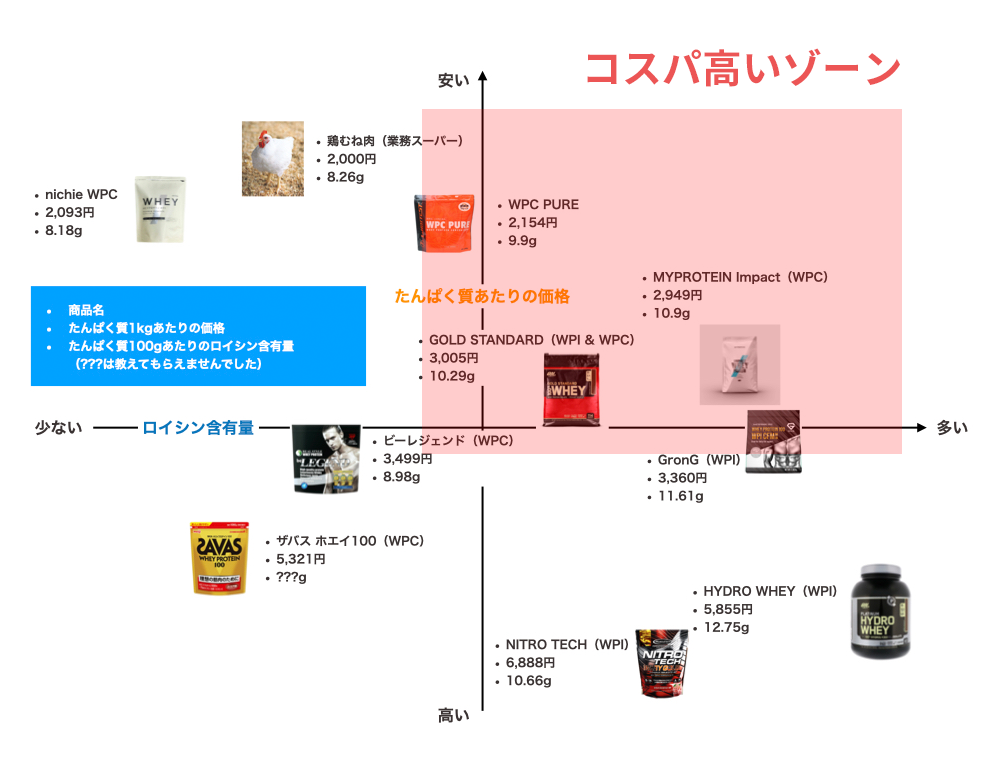
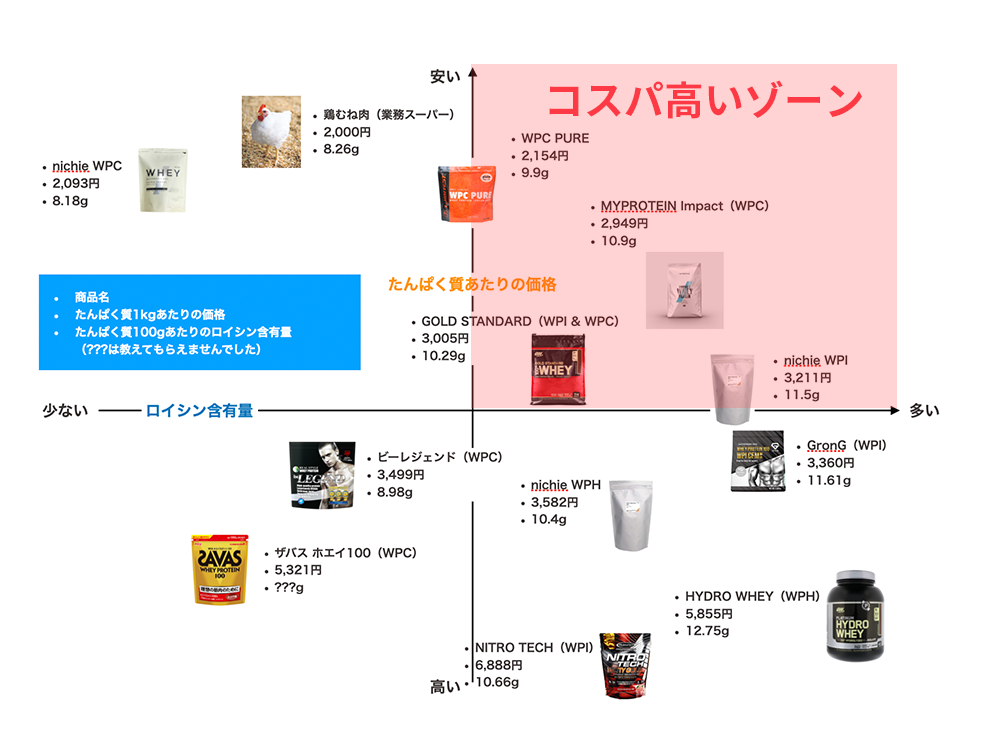
before install new theme

diff --git a/static/css/style.css b/static/css/style.css
@@ -200,3 +200,36 @@ table td, table th {
   content: '/';
   padding: 0 0.5em;
 }
+
+.thumbnail {
+  background-image: url('/img/trenyan.png');
+  background-position: center;
+  background-repeat: no-repeat;
+  background-size: cover;
+  width: 90px;
+  height: 110px;
+}
+
+#introduction > ul {
+  border-radius: 0.5em;
+  border: solid 1px lightgray;
+  padding: 0.5em 1em;
+  line-height: 2;
+  list-style-position: inside;
+}
+
+#introduction > ul:before {
+  content: "自己紹介";
+  font-weight: bolder;
+}
+
+#introduction ul {
+  list-style-type: square;
+}
+#introduction li {
+  padding-top: 0;
+}
+#introduction li > ul {
+  padding-left: 1em;
+  width: 100%;
+}

diff --git a/content/post/2020-06-28---whey-protein-manufacturing.md b/content/post/2020-06-28---whey-protein-manufacturing.md
@@ -1,0 +1,56 @@
+---
+title: "ホエイプロテインのコンセントレートとアイソレートって何が違うの？"
+description: "ホエイプロテインにコンセントレートとアイソレート、そしてハイドロリセート（加水分解ホエイペプチド）があるのを知っていますか？ホエイプロテインの製法から性質の違いまで、分かりやすく解説しました。自分にあったホエイプロテインを選びたいという方は是非記事をご覧ください。"
+thumbnail: '/img/whey-protein-manufacturing.png'
+date: 2020-06-28T12:00:00+09:00
+slug: whey-protein-manufacturing
+draft: true
+toc: true
+tags: [ "プロテイン", "コンセントレート", "アイソレート", "ハイドロリセート", "加水分解ホエイペプチド", "ホエイ", "WPC", "WPI", "WPH" ]
+categories: [ "プロテイン" ]
+series: [ "プロテインの選び方" ]
+menu: "main"
+---
+
+{{< rawhtml >}}
+<div class="flex">
+  <div class="w-25">
+    <img width="140px" src="/img/trenyan.png" alt="トレにゃん" />
+  </div>
+  <div class="w-75 pl2">
+    <b>ホエイプロテインにも種類があるのを知っていますか？</b><br>
+    より自分にあったプロテインを選ぶために、本記事ではホエイプロテインの種類について解説します。  
+  </div>
+</div>
+{{< /rawhtml >}}
+
+{{< rawhtml >}}
+<nav id="introduction">
+  <ul>
+    <li>東京工業大学アメフト部出身。トレーニング歴12年。</li>
+    <li>IT系のエンジニアを集めたエンジニア筋トレ部を設立。</li>
+    <li>エンジニア健康サミットを定期開催。</li>
+  </ul>
+</nav>
+{{< /rawhtml >}}
+
+
+## コンセントレート（WPC）とアイソレート（WPI）とハイドロリセート（WPH）の違い
+### 製法
+
+ホエイプロテインはその製法によって、WPCとWPIとWPHに分類されます。
+
+#### 性質の違い
+
+## どれを選ぶべき？
+
+## 種類別おすすめのホエイプロテイン
+
+
+オススメのプロテイン紹介は以上です。  
+本記事の参考論文は以下につけておきます。  
+
+その他ご質問やご指摘がありましたら、Twitterから随時受け付けておりますので、お気軽にお申し付けください。  
+{{< rawhtml >}}
+<a href="https://twitter.com/physique_engine" target="_blank" rel="nofollow">ITエンジニア筋トレ部部長（@physique_engine</a>
+{{< /rawhtml >}}

diff --git a/content/post/2020-06-14---proteinmap.md b/content/post/2020-06-14---proteinmap.md
@@ -26,8 +26,16 @@ menu: "main"
 
 本記事では、そんな方に向けたプロテインの選び方を解説します。
 
-私は、東工大アメフト部出身の筋トレオタクで、現在はITエンジニアが所属できるエンジニア筋トレ部の部長をしています。  
-日頃から筋トレに関する論文を読みあさっているため、科学的根拠に基づいた解説をしていければと思います。  
+
+{{< rawhtml >}}
+<nav id="introduction">
+  <ul>
+    <li>東京工業大学アメフト部出身。トレーニング歴12年。</li>
+    <li>IT系のエンジニアを集めたエンジニア筋トレ部を設立。</li>
+    <li>エンジニア健康サミットを定期開催。</li>
+  </ul>
+</nav>
+{{< /rawhtml >}}
 
 ## コスパの良いプロテインの選び方
 ### 目的を明確にする
@@ -133,7 +141,7 @@ GOLD STANDARDの場合、<a href="https://massnutrition.com.au/products/optimum-
 
 筋力向上目的でホエイプロテインを購入する場合は、これらの分量と実際の価格を比較して、コスパを検討する必要があります。
 
-## コスパの良いホエイプロテイン3選
+## コスパの良いおすすめプロテイン3選
 
 今回は、筋力向上を目指す人向けに、タンパク質含有量とロイシン含有量を様々なホエイプロテインで計算して、コスパをまとめてみました。  
 ![プロテインのポジショニングマップ](/img/protein-positioning-map.png)
@@ -164,5 +172,5 @@ WPC PUREは「<a target="_blank" href="https://www.amazon.co.jp/gp/product/B07GZ
 
 その他ご質問やご指摘がありましたら、Twitterから随時受け付けておりますので、お気軽にお申し付けください。  
 {{< rawhtml >}}
-<a href="https://twitter.com/ekuro096" target="_blank" rel="nofollow">エクロ（@ekuro096）</a>
+<a href="https://twitter.com/physique_engine" target="_blank" rel="nofollow">ITエンジニア筋トレ部部長（@physique_engine</a>
 {{< /rawhtml >}}
